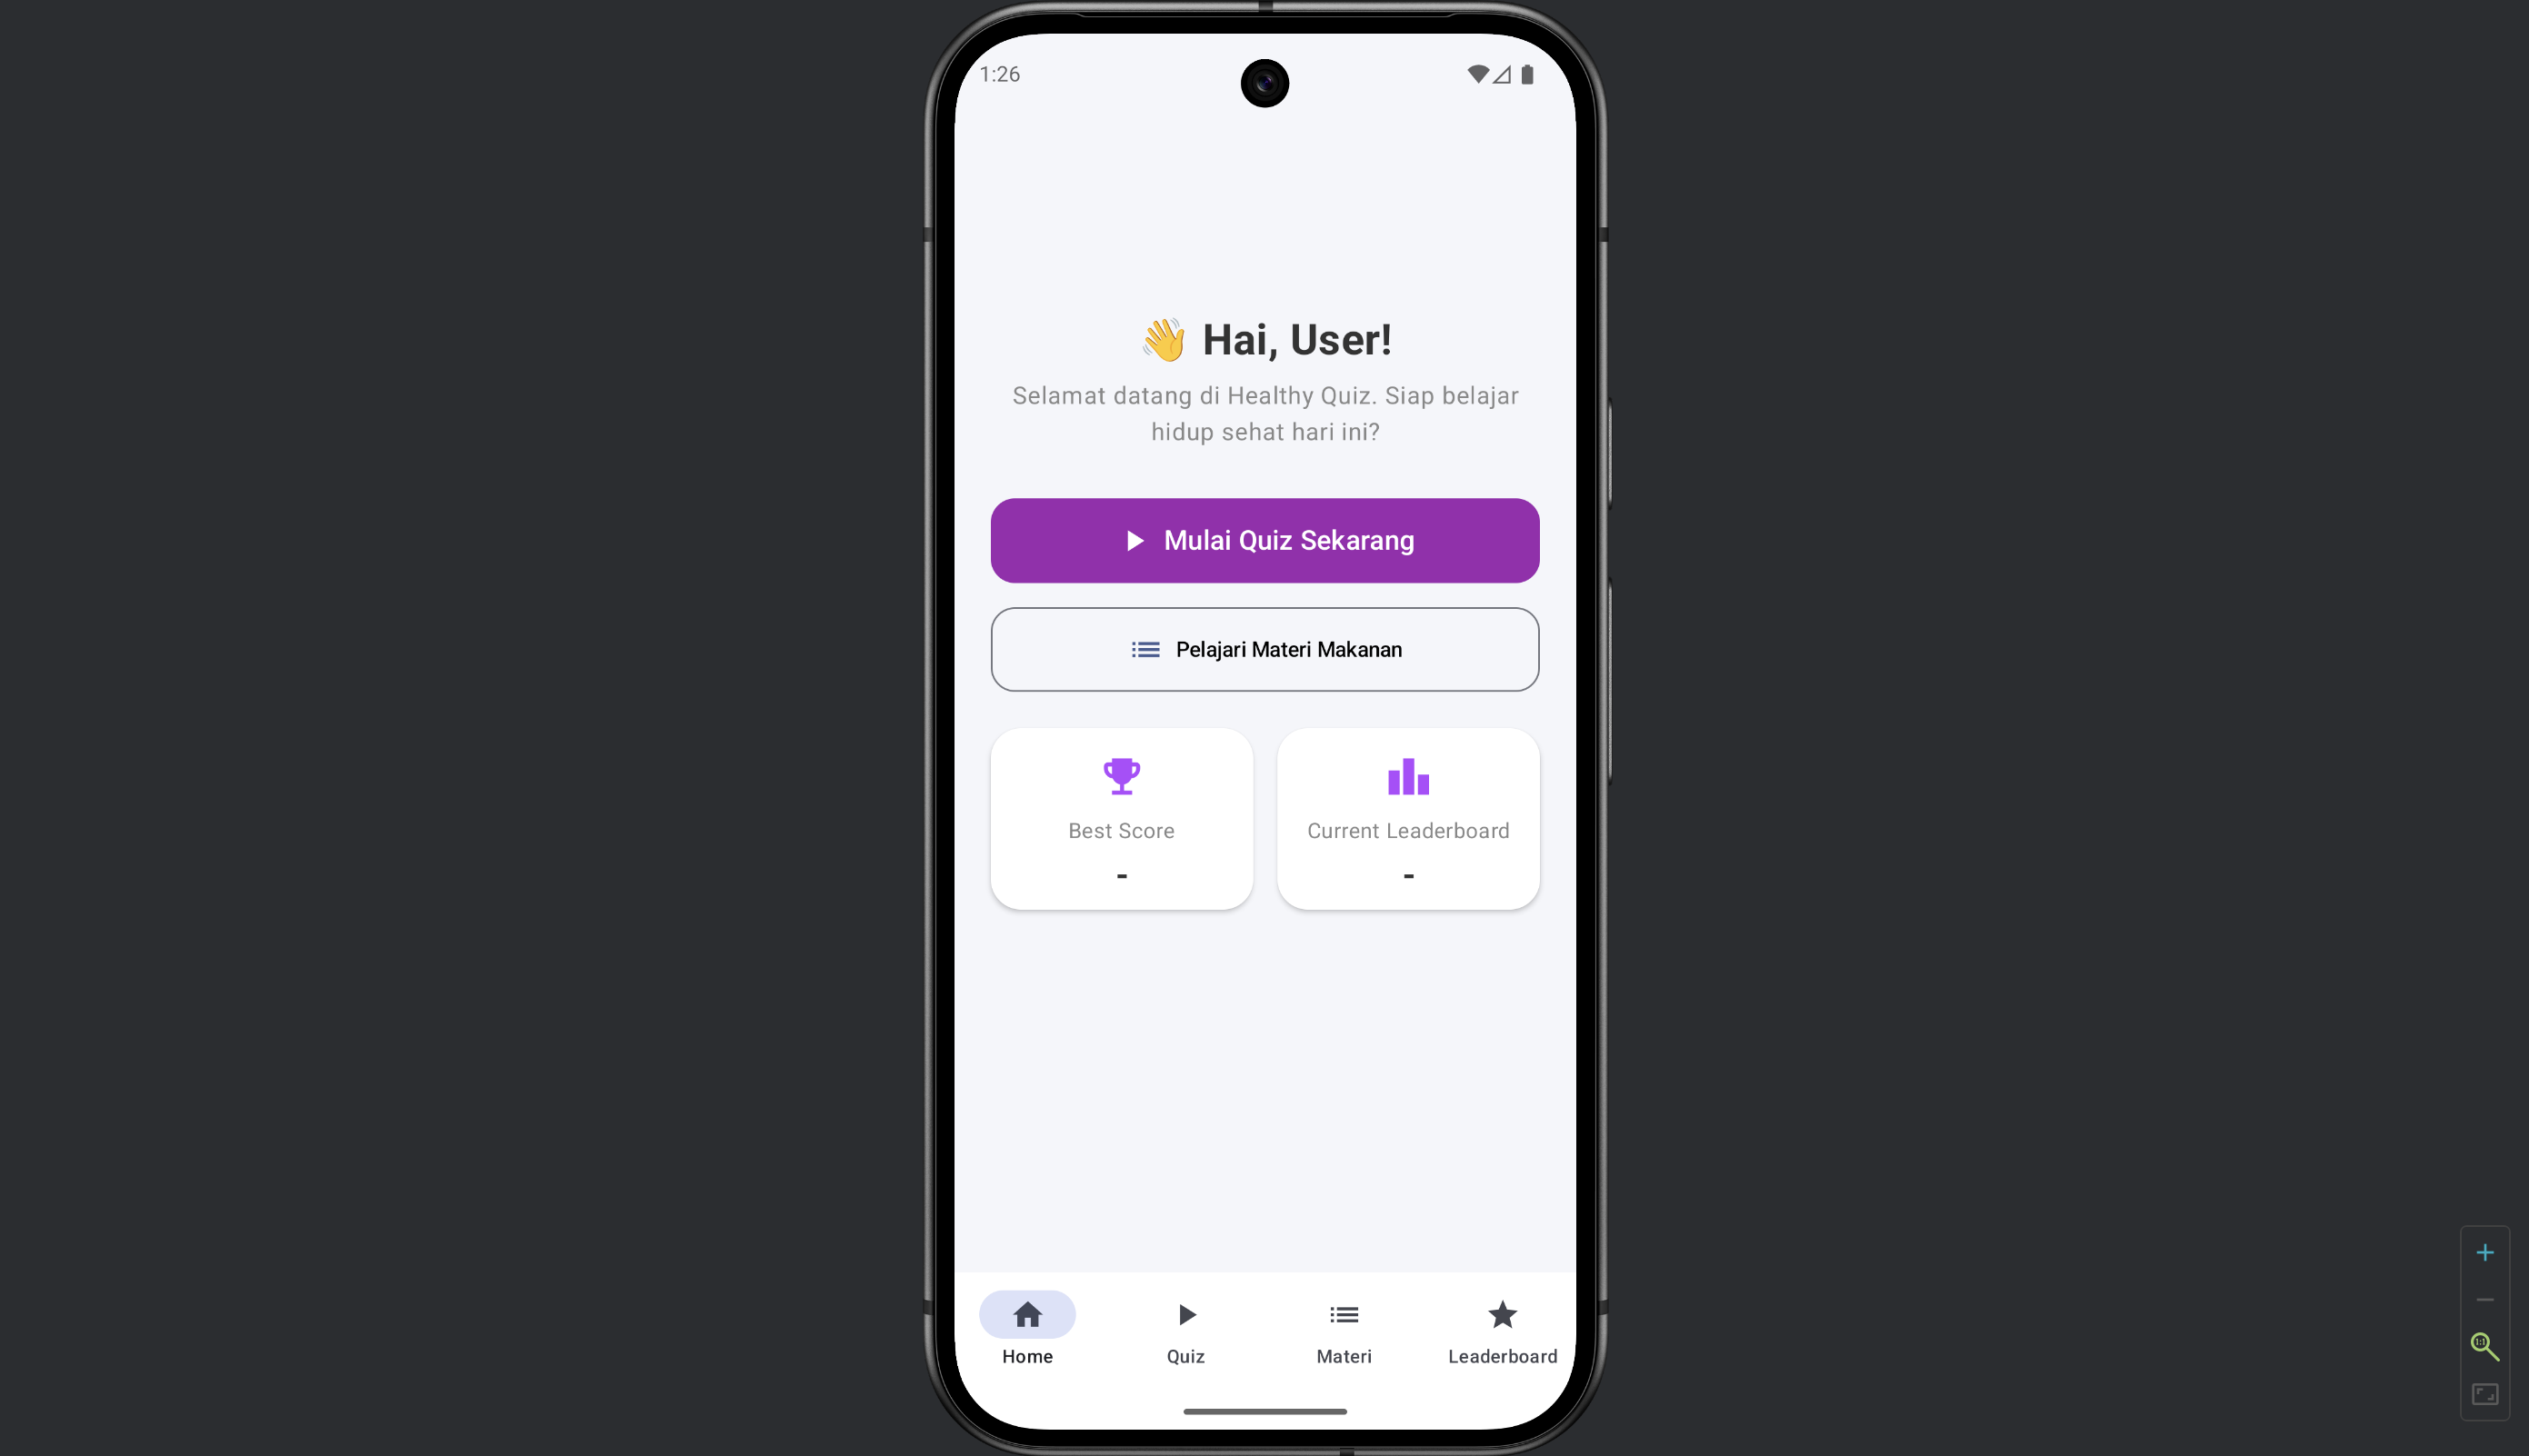
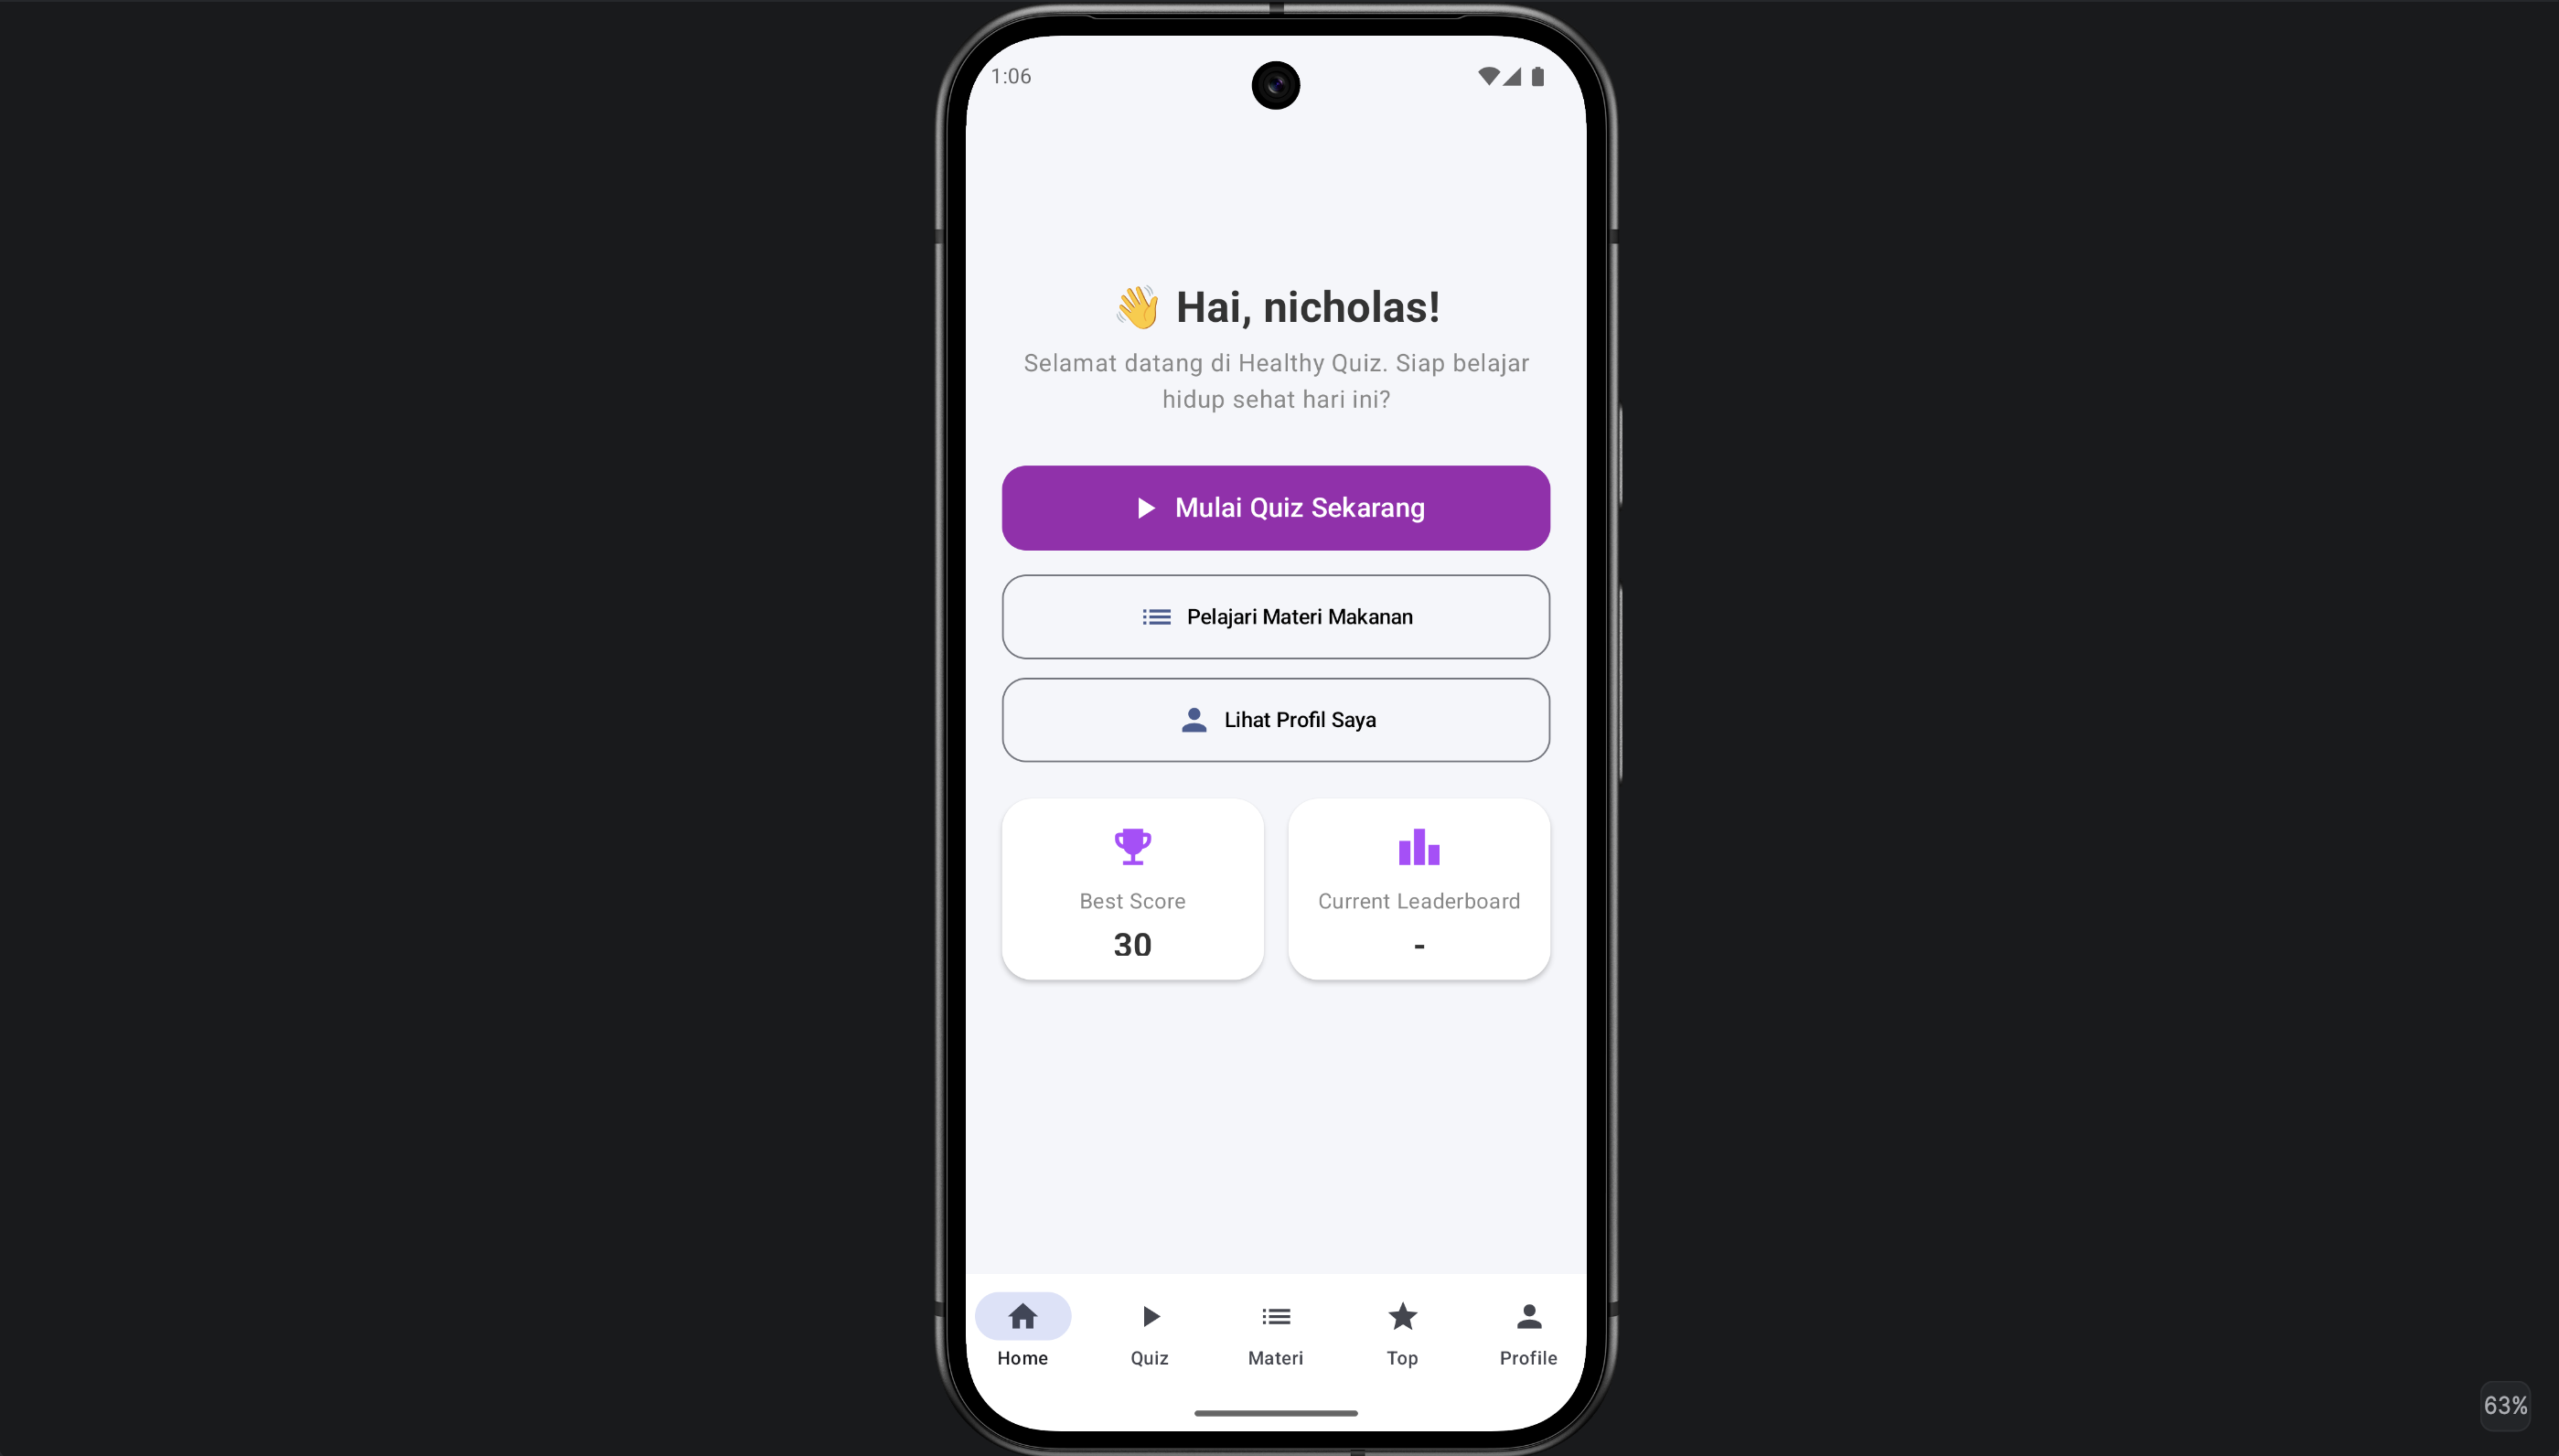
fix my 4th project information

diff --git a/data/projects.ts b/data/projects.ts
@@ -81,7 +81,7 @@ export const projectsData: Project[] = [
     image: "/images/portfolio4.png",
     githubLink: "https://github.com/BZBBZBZZ/ALPVP",
     githubLink2: "https://github.com/BZBBZBZZ/ALPVPBACKEND",
-    videoLink: "https://youtu.be/K311YZUvvXY",
+    videoLink: "https://youtu.be/ahUspL9DMZI",
   },
   {
   slug: "project-five",